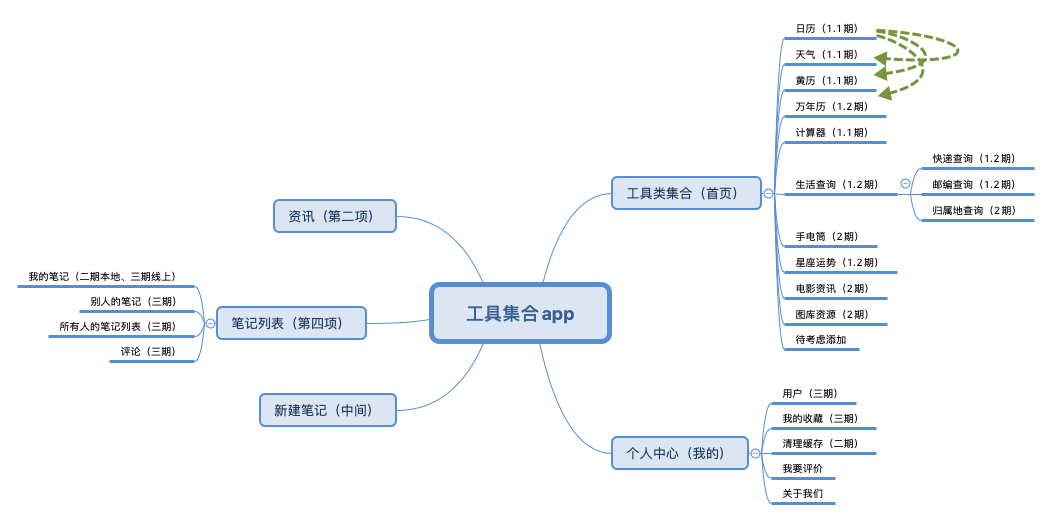
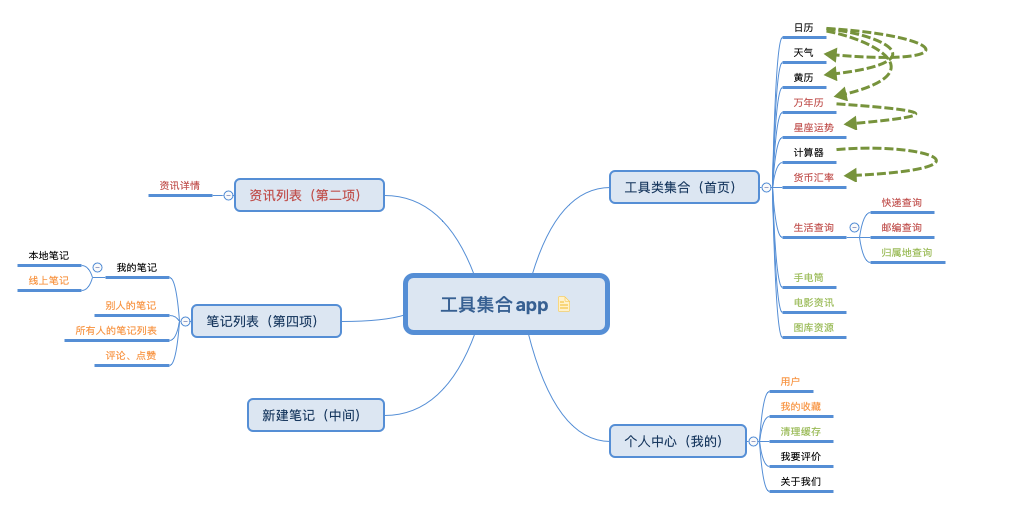
修改

diff --git a/tools_app_naotu.html b/tools_app_naotu.html
@@ -4,84 +4,100 @@
 <meta content="text/html; charset=utf-8" http-equiv="Content-Type">
 <meta content="text/css" http-equiv="Content-Style-Type">
 <title>工具集合app</title>
+<style type="text/css">
+span.s1 {background-color: #FFFFFF; color: #C0504D}
+span.s2 {background-color: #FFFFFF; color: #9BBB59}
+span.s3 {background-color: #FFFFFF; color: #F79646}
+</style>
 </head>
 <body>
 <h1 align="center" class="root">
 <a name="0l797qrnnfspcc9nsdqge4roi4">工具集合app</a>
 </h1>
 <div align="center" class="globalOverview">
-<img src="%E5%B7%A5%E5%85%B7%E9%9B%86%E5%90%88app_files/images/%E5%B7%A5%E5%85%B7%E9%9B%86%E5%90%88app 2.jpg"></div>
+<img src="resource/tools_app_resource/images/tools_app_image.jpg"></div>
+<div class="notesContainer">
+<p>修订：v1.0		撰写人：sam wang</p>
+<p>
+<span class="s1">修订：v1.1		撰写人：sam wang</span>
+</p>
+<p>
+<span class="s2">修订：v2.0		撰写人：sam wang</span>
+</p>
+<p>
+<span class="s3">修订：v3.0		撰写人：sam wang</span>
+</p>
+</div>
 <h2 class="topic">
 <a name="0e3j8ahlbhstvvouqqfd873m5f">工具类集合（首页）</a>
 </h2>
 <h3 class="topic">
-<a name="6krt06ocn6i5mhcb600dp1u9af">&nbsp;日历（1.1期）</a>
+<a name="6krt06ocn6i5mhcb600dp1u9af">&nbsp;日历</a>
 </h3>
-<p class="relationships">参见: <a href="#6nb48o73gnjbclg2d6g9ru9mcc">黄历（1.1期）</a>, <a href="#77699fk03o65dkdga0m1p8c8oo">万年历（1.2期）</a>, <a href="#7ppquqd18kaa3iijvovbmkikg3">天气（1.1期）</a>
+<p class="relationships">参见: <a href="#6nb48o73gnjbclg2d6g9ru9mcc">黄历</a>, <a href="#77699fk03o65dkdga0m1p8c8oo">万年历</a>, <a href="#7ppquqd18kaa3iijvovbmkikg3">天气</a>
 </p>
 <h3 class="topic">
-<a name="7ppquqd18kaa3iijvovbmkikg3">&nbsp;天气（1.1期）</a>
+<a name="7ppquqd18kaa3iijvovbmkikg3">&nbsp;天气</a>
 </h3>
-<p class="relationships">参见: <a href="#6krt06ocn6i5mhcb600dp1u9af">日历（1.1期）</a>
+<p class="relationships">参见: <a href="#6krt06ocn6i5mhcb600dp1u9af">日历</a>
 </p>
 <h3 class="topic">
-<a name="6nb48o73gnjbclg2d6g9ru9mcc">&nbsp;黄历（1.1期）</a>
+<a name="6nb48o73gnjbclg2d6g9ru9mcc">&nbsp;黄历</a>
 </h3>
-<p class="relationships">参见: <a href="#6krt06ocn6i5mhcb600dp1u9af">日历（1.1期）</a>
+<p class="relationships">参见: <a href="#6krt06ocn6i5mhcb600dp1u9af">日历</a>
 </p>
 <h3 class="topic">
-<a name="77699fk03o65dkdga0m1p8c8oo">&nbsp;万年历（1.2期）</a>
+<a name="77699fk03o65dkdga0m1p8c8oo">&nbsp;万年历</a>
 </h3>
-<p class="relationships">参见: <a href="#6krt06ocn6i5mhcb600dp1u9af">日历（1.1期）</a>
+<p class="relationships">参见: <a href="#6krt06ocn6i5mhcb600dp1u9af">日历</a>, <a href="#6vdvn9hfgk742qu1c61r40b3p2">星座运势</a>
 </p>
 <h3 class="topic">
-<a name="2i9frrl2df2hrcj054seakvjod">&nbsp;计算器（1.1期）</a>
+<a name="6vdvn9hfgk742qu1c61r40b3p2">&nbsp;星座运势</a>
 </h3>
-<p class="relationships">参见: <a href="#4ieaqlgsjjj7vvg42j8qqgeeb4">货币汇率（1.2期）</a>
+<p class="relationships">参见: <a href="#77699fk03o65dkdga0m1p8c8oo">万年历</a>
 </p>
 <h3 class="topic">
-<a name="4ieaqlgsjjj7vvg42j8qqgeeb4">&nbsp;货币汇率（1.2期）</a>
+<a name="2i9frrl2df2hrcj054seakvjod">&nbsp;计算器</a>
 </h3>
-<p class="relationships">参见: <a href="#2i9frrl2df2hrcj054seakvjod">计算器（1.1期）</a>
+<p class="relationships">参见: <a href="#4ieaqlgsjjj7vvg42j8qqgeeb4">货币汇率</a>
 </p>
 <h3 class="topic">
-<a name="68ghb223iojdodqb3rcn5v5dpq">&nbsp;生活查询（1.2期）</a>
+<a name="4ieaqlgsjjj7vvg42j8qqgeeb4">&nbsp;货币汇率</a>
+</h3>
+<p class="relationships">参见: <a href="#2i9frrl2df2hrcj054seakvjod">计算器</a>
+</p>
+<h3 class="topic">
+<a name="68ghb223iojdodqb3rcn5v5dpq">&nbsp;生活查询</a>
 </h3>
 <h3 class="topic">
-<a name="4h5hudgesb7d8dli7c05d0mk0l">&nbsp;&nbsp;快递查询（1.2期）</a>
+<a name="4h5hudgesb7d8dli7c05d0mk0l">&nbsp;&nbsp;快递查询</a>
 </h3>
 <h3 class="topic">
-<a name="71iebf4ehmkknuie1ke14217ap">&nbsp;&nbsp;邮编查询（1.2期）</a>
+<a name="71iebf4ehmkknuie1ke14217ap">&nbsp;&nbsp;邮编查询</a>
 </h3>
 <h3 class="topic">
-<a name="3fb49b1gb5b2eb8dspnvsvil4s">&nbsp;&nbsp;归属地查询（2期）</a>
+<a name="3fb49b1gb5b2eb8dspnvsvil4s">&nbsp;&nbsp;归属地查询</a>
 </h3>
 <h3 class="topic">
-<a name="2870sqikmegm05osp77ke2ti76">&nbsp;手电筒（2期）</a>
+<a name="2870sqikmegm05osp77ke2ti76">&nbsp;手电筒</a>
 </h3>
 <h3 class="topic">
-<a name="6vdvn9hfgk742qu1c61r40b3p2">&nbsp;星座运势（1.2期）</a>
+<a name="39350urqkqo0d9leuh8jgi375j">&nbsp;电影资讯</a>
 </h3>
 <h3 class="topic">
-<a name="39350urqkqo0d9leuh8jgi375j">&nbsp;电影资讯（2期）</a>
-</h3>
-<h3 class="topic">
-<a name="37voumblek7pddpnsfa7083air">&nbsp;图库资源（2期）</a>
-</h3>
-<h3 class="topic">
-<a name="44ojnhfmb9hljvov7mco9d0ck9">&nbsp;待考虑添加</a>
+<a name="37voumblek7pddpnsfa7083air">&nbsp;图库资源</a>
 </h3>
 <h2 class="topic">
 <a name="50g8ah0c56b877qih2ds01krmg">个人中心（我的）</a>
 </h2>
 <h3 class="topic">
-<a name="1c2c2l1e80tru4ved1da859ahc">&nbsp;用户（三期）</a>
+<a name="1c2c2l1e80tru4ved1da859ahc">&nbsp;用户</a>
 </h3>
 <h3 class="topic">
-<a name="5omunk5v5oh0p8fkpvc55595ot">&nbsp;我的收藏（三期）</a>
+<a name="5omunk5v5oh0p8fkpvc55595ot">&nbsp;我的收藏</a>
 </h3>
 <h3 class="topic">
-<a name="69s4aduquh4cpl5orgosf1mufl">&nbsp;清理缓存（二期）</a>
+<a name="69s4aduquh4cpl5orgosf1mufl">&nbsp;清理缓存</a>
 </h3>
 <h3 class="topic">
 <a name="7f6jcanqn9jib2e5bela2q15gk">&nbsp;我要评价</a>
@@ -96,19 +112,28 @@
 <a name="55ul2mu4vggkhj7jvstnosu9at">笔记列表（第四项）</a>
 </h2>
 <h3 class="topic">
-<a name="1bj2akt1mips8t69nl6ob18b8s">&nbsp;我的笔记（二期本地、三期线上）</a>
+<a name="1bj2akt1mips8t69nl6ob18b8s">&nbsp;我的笔记</a>
 </h3>
 <h3 class="topic">
-<a name="2npgr6v6tnfsgdbee2taol3omk">&nbsp;别人的笔记（三期）</a>
+<a name="4ab8l46dmfd2ch0unvcd6trs3n">&nbsp;&nbsp;本地笔记</a>
 </h3>
 <h3 class="topic">
-<a name="4ltdtsran2idsrjnlhmpmi4og7">&nbsp;所有人的笔记列表（三期）</a>
+<a name="6k2t04veneo881vu92f175bg26">&nbsp;&nbsp;线上笔记</a>
 </h3>
 <h3 class="topic">
-<a name="75s8k7u6452nhb6i30e1tjqa8q">&nbsp;评论（三期）</a>
+<a name="2npgr6v6tnfsgdbee2taol3omk">&nbsp;别人的笔记</a>
+</h3>
+<h3 class="topic">
+<a name="4ltdtsran2idsrjnlhmpmi4og7">&nbsp;所有人的笔记列表</a>
+</h3>
+<h3 class="topic">
+<a name="75s8k7u6452nhb6i30e1tjqa8q">&nbsp;评论、点赞</a>
 </h3>
 <h2 class="topic">
-<a name="7fpqrutn1av7aedkrplaqi3nl5">资讯（第二项）</a>
+<a name="7fpqrutn1av7aedkrplaqi3nl5">资讯列表（第二项）</a>
 </h2>
+<h3 class="topic">
+<a name="345n62sun7usel771s6d5krbrg">&nbsp;资讯详情</a>
+</h3>
 </body>
 </html>
